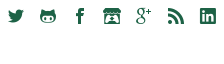
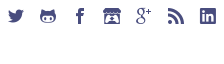
Theming w/ OIL-6 palette.

diff --git a/assets/css/_sass/partials/_variables.scss b/assets/css/_sass/partials/_variables.scss
@@ -1,23 +1,24 @@
-$Black: #09111C;
-$Dark: #1D6246;
-$Mid: #8ABF71;
-$Light: #DFF8D0;
-$White: #ffffff;
+$Black: #272744;
+$Dark: #494d7e;
+$MidDark: #8b6d9c;
+$MidLight: #c69fa5;
+$Light: #f2d3ab;
+$White: #fbf5ef;
 
 // General colors
 $background-color: $Black;
 $secondary-background-color: $Dark;
 $primary-color: $White;
 $secondary-primary-color: $Light;
-$secondary-color: $Mid;
+$secondary-color: $MidLight;
 $headings-color: $Light;
 $separator-color: $Dark;
-$box-color: rgba($Mid, 0.7);
+$box-color: rgba($MidLight, 0.7);
 $border-color: $White;
 $shadow-color: $White;
 
 $text-color: $White;
-$meta-color: $Mid;
+$meta-color: $MidDark;
 
 $link-normal: $Light;
 $link-hover: $Light;
